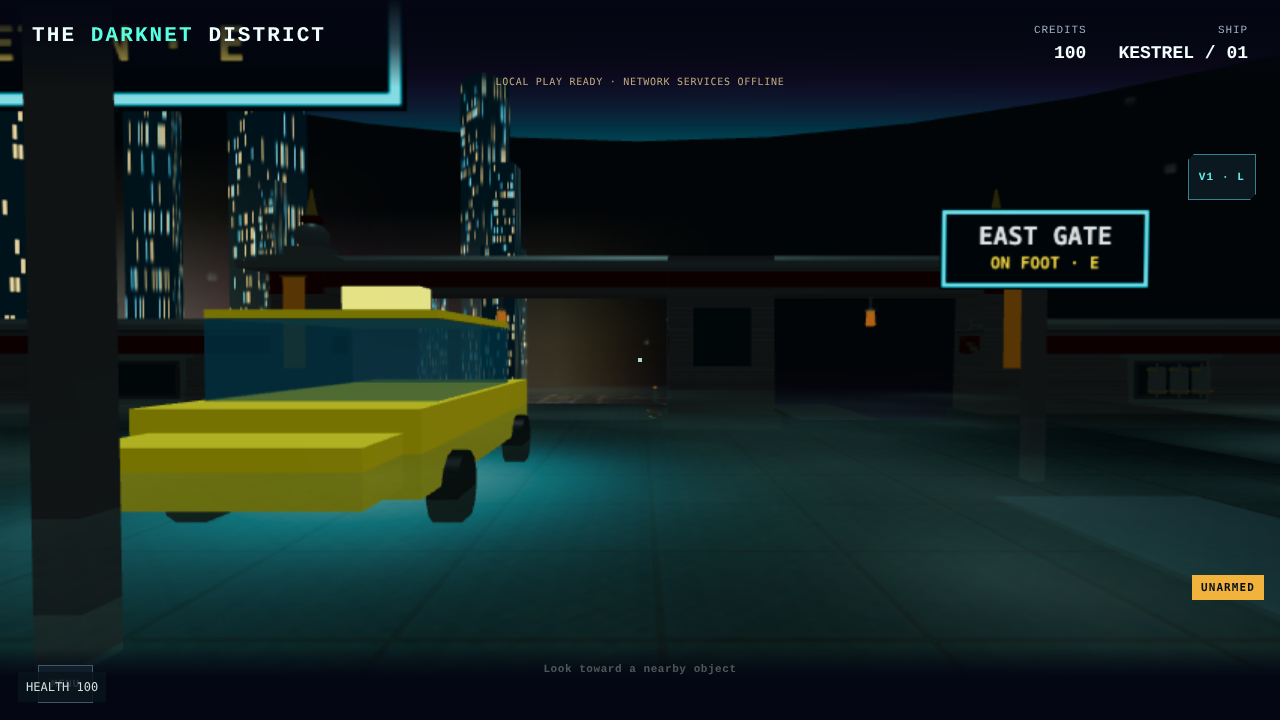
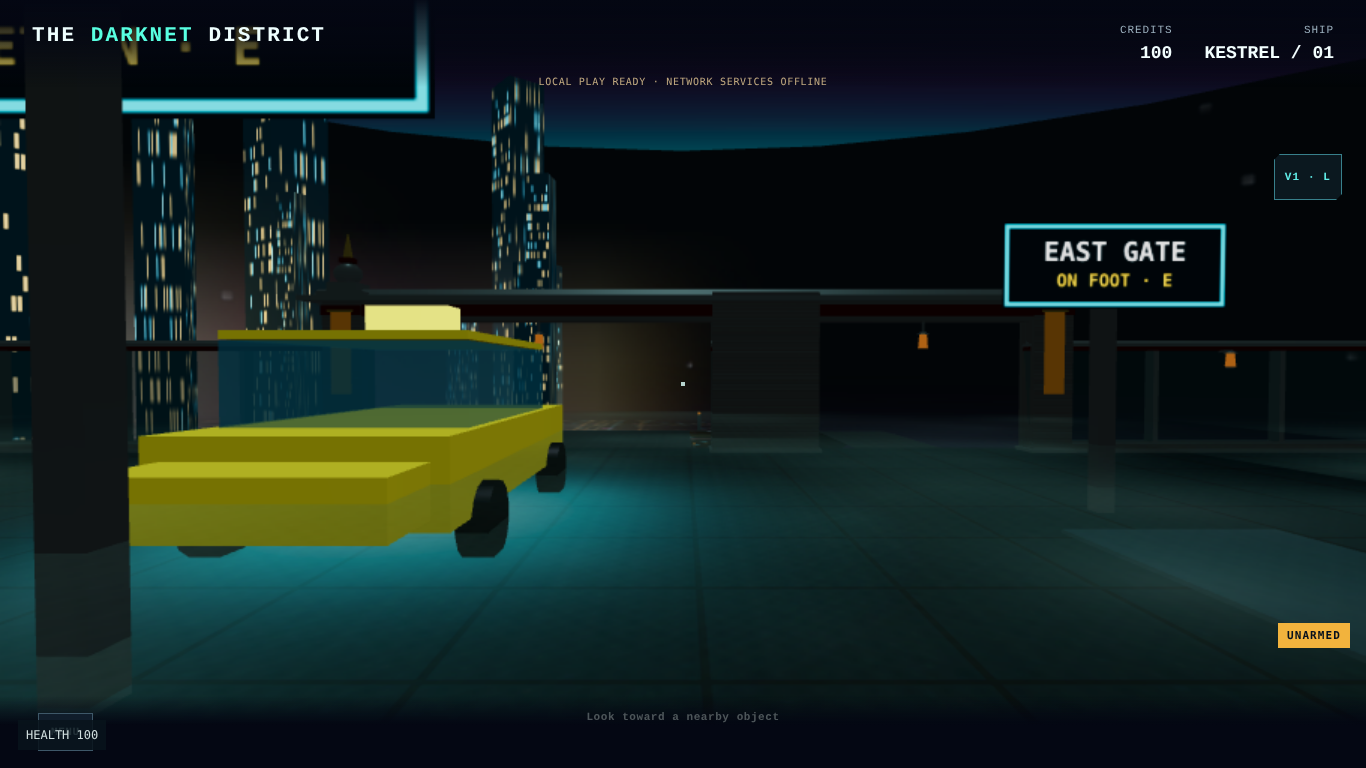
Temple wall: final screenshots (translucent), measured draw calls
Claude-Session: https://claude.ai/code/session_013LW6cCPWiok2HMcoh6xN6q

diff --git a/docs/development/TEMPLE.md b/docs/development/TEMPLE.md
@@ -3,7 +3,7 @@
 > **Update, build `2026-11-18-temple-wall-1` (monastery wall at the edge, translucent):** the owner asked for "a Buddhist monastery style wall around the outside of the Temple area, cyberpunk style but matching the Temple ... right at the dropoff on the edge, not very high, just taller than the player", then "make the new wall translucent, but about .20m solid at the bottom and the solid part slightly thicker with trim at the bottom". `void-runner/temple-wall.js` (new; pure layout + 3D build) puts a continuous wall on the plateau edge (outer face at 49.65 m; the ground ends at 50), **2.3 m** to the top (the player's eye is 1.7 m): a **0.2 m solid base** of the hall's printed concrete, 0.5 m thick, on a dark **trim moulding** at the foot; above it **translucent dark-teal glass** (0.24 m) between slim dark mullions every ~2.7 m, a thin **maroon rail** and a dark cap on top (the monastery wall's band and coping, kept as a rail); a faint **dharma-wheel glyph** glowing in the glass every bay (Medium and up), a few warm lamps hung under the rail; solid **corner posts and gate piers with small stupa finials**; saffron cloth only at the gatehouse and the overlook.
 > - **Openings:** a **gatehouse** in the south wall behind the taxi stop: a road bay (7.2 m, centred on the cab) and a walkers' bay (4.4 m) right behind the EAST GATE · ON FOOT sign, with a lintel, band, tiled roof and two lamps; the hill road and the footpath run out through it and down the slope (warm marker posts). The player can walk into the gate bays up to the edge, not off it. In the east wall an **overlook window** in front of OVERLOOK THE CITY: glass only to 1 m, slim posts and the rail above, so the view down to the city is clear (it stays solid).
 > - **Collision:** full height (glass included). The wall wraps `VoidTemple.layout()` from its own file: the old 1.2 m parapet's four solids are replaced by the wall's segments (gaps at the two gate bays only). All interactions are still reachable (`tests/temple-wall.test.cjs`, and the browser walk). `temple-build.js` calls `VoidTempleWall.build(...)` on the line that drew the parapet, and still draws the parapet if the file is missing. Not on the V1 map yet (the map's walls come from `temple.js`).
-> - **Cost:** one glass material (four meshes, one per side, so they sort by distance; no depth write), one merged mesh per other material, no real lights on any tier; Low: plain colours, no glyphs or roof ribs, glass a little more opaque without specular. Screenshots: `docs/development/temple-wall/` (1366x768).
+> - **Cost:** one glass material (four meshes, one per side, so they sort by distance; no depth write), one merged mesh per other material, no real lights on any tier; Low: plain colours, no glyphs or roof ribs, glass a little more opaque without specular. Measured (software GL, draw calls in view, without the wall -> with it): Medium gate 66->82, corner 36->52, city view 42->60, at the dais 46->46; Low 26->33, 11->18, 14->22, dais 16->15; frame time within noise. Screenshots: `docs/development/temple-wall/` (1366x768, medium and low).
 
 > **Update, build `2026-11-18-zen-voice-1` (Zen Zephyr speaks: the owner's approved, voiced script):** the placeholder keyword chat and its typed panel are gone. Zen Zephyr now says the owner's own words (approved 18 Nov 2026), recorded with ElevenLabs (voice "Sigma Centauri - AI Robot", `bAq8AI9QURijOtmeFFqT`, model eleven_v4, chosen by the owner; every line re-recorded with the `[meditative]` delivery tag at his request), in the game's ordinary conversation window (`talk()` and the new list form of `talkChoice()`, so the recordings, auto-advance, the transcript and his gaze behave as with every other character). Canon from the owner the same day: *"Zen Zephyr is almost seen as the Dali Llama there. He's an AI Monk who speaks in cyberpunk themed proverbs."*
 > - **One source:** `tools/audio/zen-zephyr-script.json` (the owner's script, verbatim). `node tools/audio/zen-import.cjs [--clips <folder>] [--check]` writes it into `zen-chat.js` (the `ZEN-SCRIPT` block; never edit those lines by hand), registers one clip per line in `assets/audio/voice/extra/manifest.json` (speaker `zen-zephyr`, exact text, `extra/zen-<key>.ogg`; keys `greeting`, `followup`, `<topic>-<n>`) and copies the clips. Adding or changing lines = edit the JSON, render the clips, run the tool.
